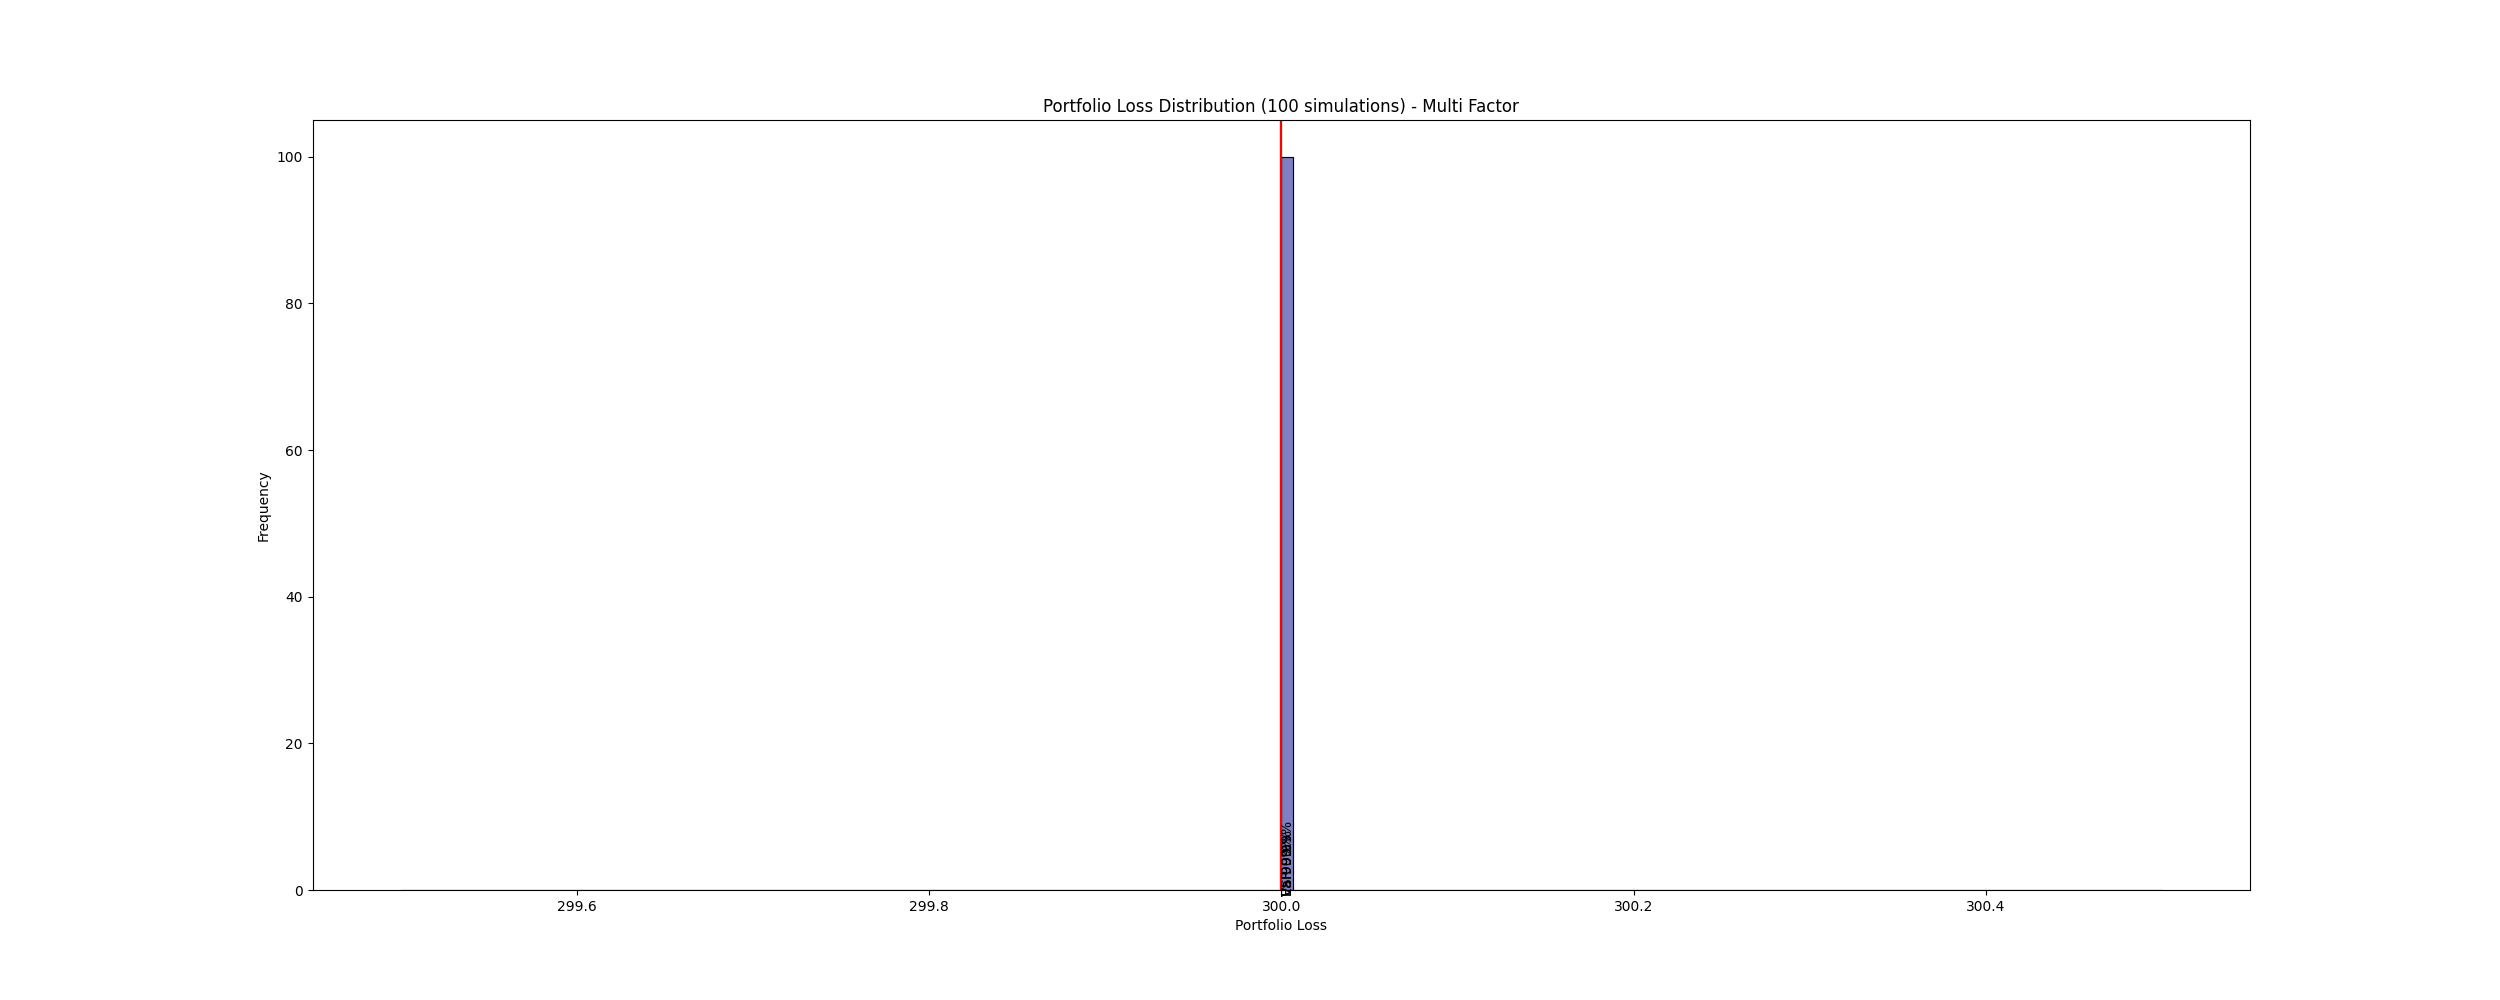
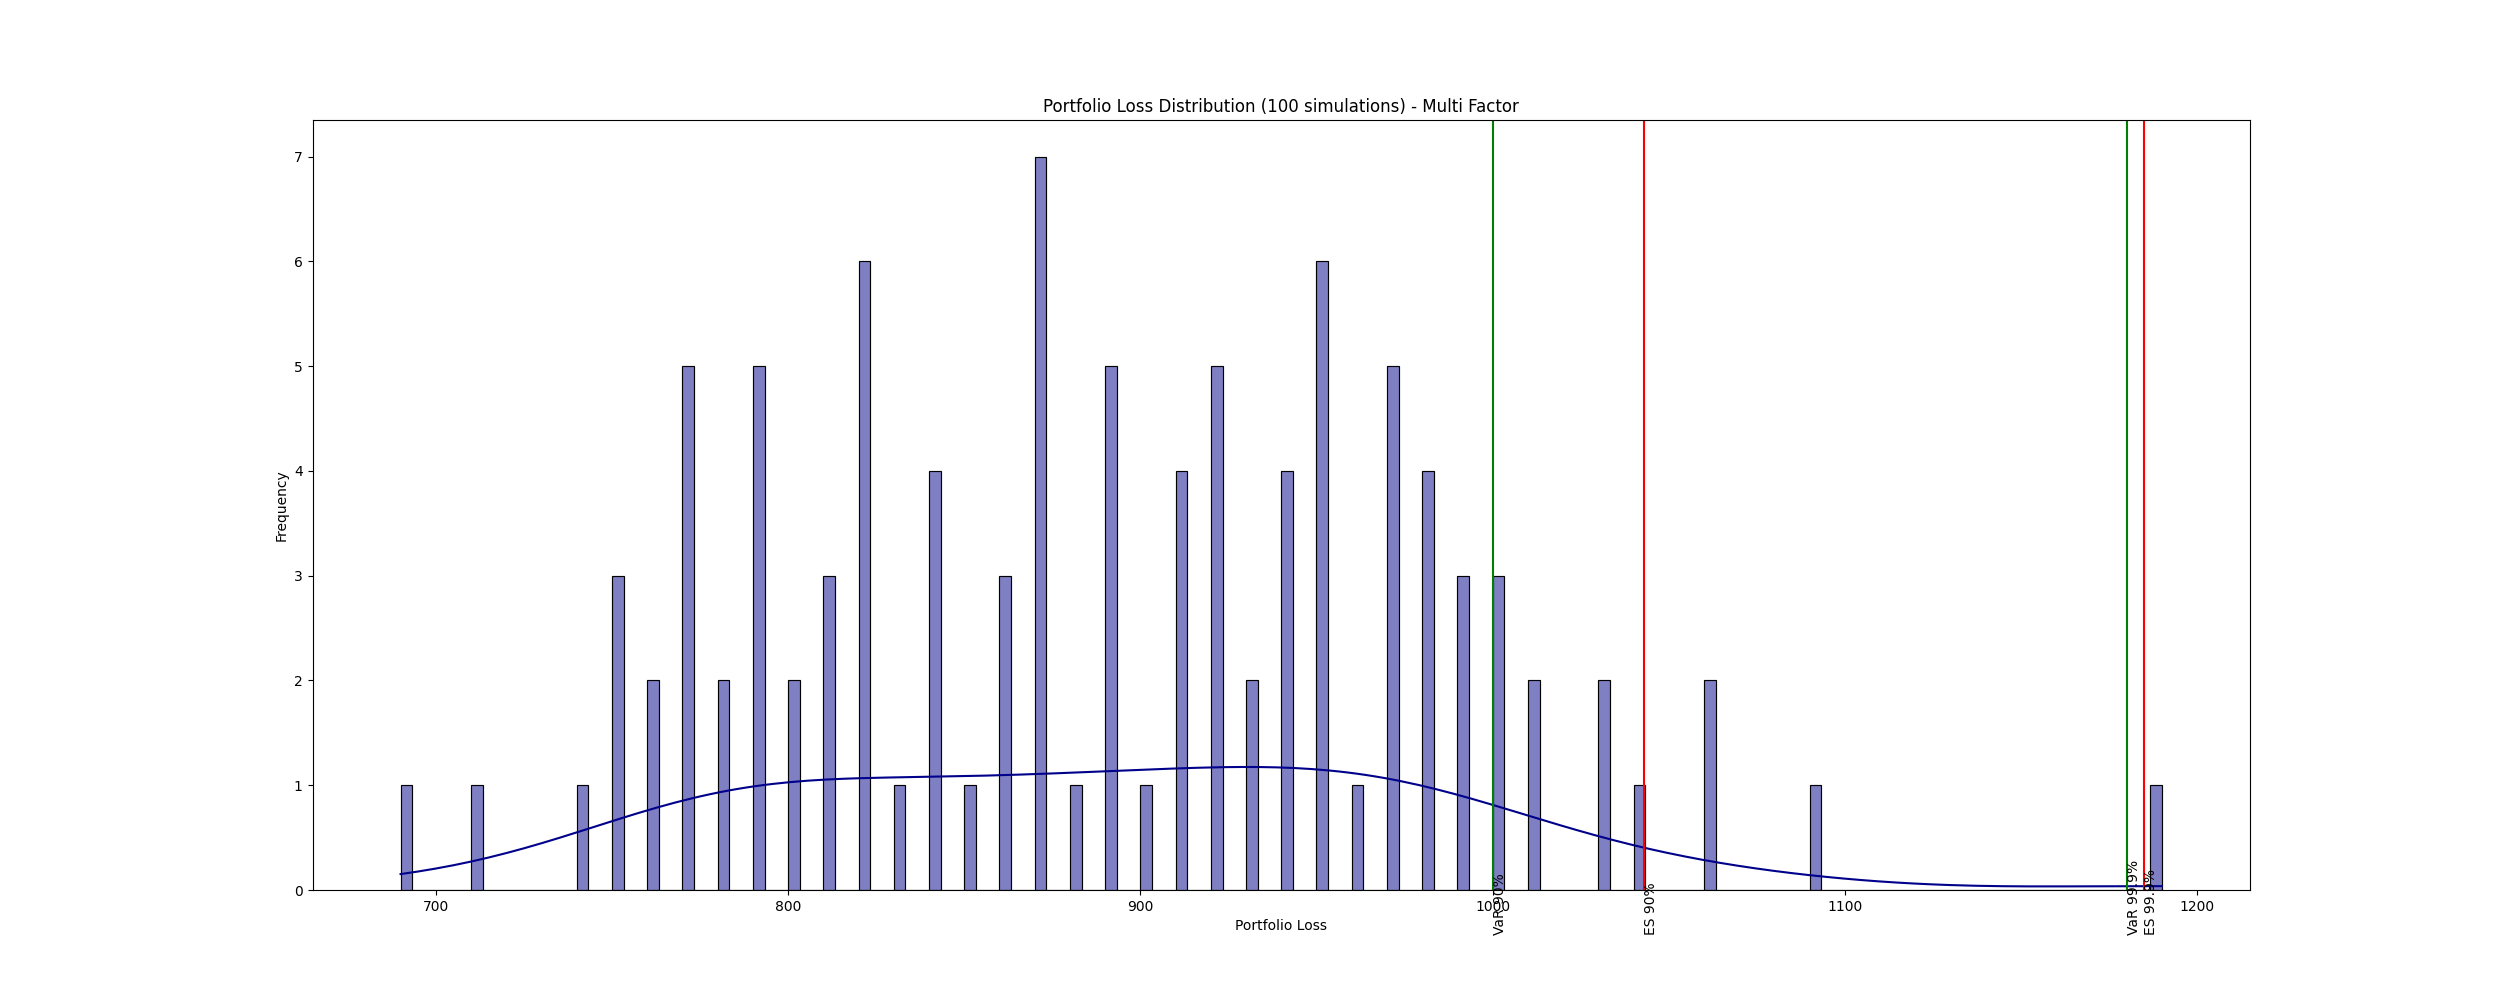
Updated multi_factor_simulation.py

diff --git a/code/multi_factor_simulation_ALITER.py b/code/multi_factor_simulation_ALITER.py
@@ -70,17 +70,14 @@ for i in range(len(df)):
     df['Z2'].loc[i] = sys_factors[i][1]
     df['Z3'].loc[i] = sys_factors[i][2]
 
-epsilon = generate_standard_normal_polar(50)
-df["epsilon"] = epsilon
-
-df.to_csv(os.path.join(HOME, 'export', 'multi_factor_sensitivities_ALITER.csv'))
+# df.to_csv(os.path.join(HOME, 'export', 'multi_factor_sensitivities_ALITER.csv'))
 
 # ==============================================================================================================================================
 # Monte Carlo simulation
 PORTFOLIO_LOSS = list()
 
-simulations = 100
-cols = df.columns.drop(['epsilon', 'Sector'])
+simulations = 10_000
+cols = df.columns.drop(['Sector'])
 df[cols] = df[cols].apply(pd.to_numeric, errors='coerce')
 
 for i in range(simulations):
@@ -91,7 +88,7 @@ for i in range(simulations):
         first_part = np.sqrt(df['Factor_Sensitivity'].loc[row]) * \
             (df['Z1'].loc[row] + df['Z2'].loc[row] + df['Z3'].loc[row])
         second_part = np.sqrt(
-            1-df['Factor_Sensitivity'].loc[row]) * df['epsilon'].loc[row]
+            1-df['Factor_Sensitivity'].loc[row]) * epsilon
         asset_value_i = first_part + second_part
         asset_value.append(asset_value_i)
 
@@ -117,9 +114,7 @@ for i in range(simulations):
 
     PORTFOLIO_LOSS.append(df['Loss'].sum())
 
-print(PORTFOLIO_LOSS)
-
-""" # ==============================================================================================================================================
+# ==============================================================================================================================================
 
 # Calculating Value-at-Risk (VaR) and Expected Shortfall (ES) at 95% and 99% confidence intervals
 
@@ -154,8 +149,7 @@ plt.axvline(ES_999, color='red')
 plt.text(ES_999, -0.4, 'ES 99.9%', rotation=90)
 plt.xlabel('Portfolio Loss')
 plt.ylabel('Frequency')
-plt.title('Portfolio Loss Distribution (100 simulations) - Multi Factor')
+plt.title('Portfolio Loss Distribution (10,000 simulations) - Multi Factor')
 plt.savefig(os.path.join(HOME, 'export',
-            'multi_factor_PLD_100.png'))
+            'multi_factor_PLD_10000.png'))
 plt.show()
- """

diff --git a/code/single_factor_simulation.py b/code/single_factor_simulation.py
@@ -24,7 +24,7 @@ df = pd.read_csv('export/single_factor_sensitivities.csv', index_col=0)
 # Monte Carlo simulation
 PORTFOLIO_LOSS = list()
 Z = normal(loc=0.0, scale=1.0)
-simulations = 50_000
+simulations = 100
 
 for i in range(simulations):
 
@@ -55,6 +55,8 @@ for i in range(simulations):
     df['Loss'] = loss
 
     PORTFOLIO_LOSS.append(df['Loss'].sum())
+
+print(PORTFOLIO_LOSS)
 
 # ==============================================================================================================================================
 
